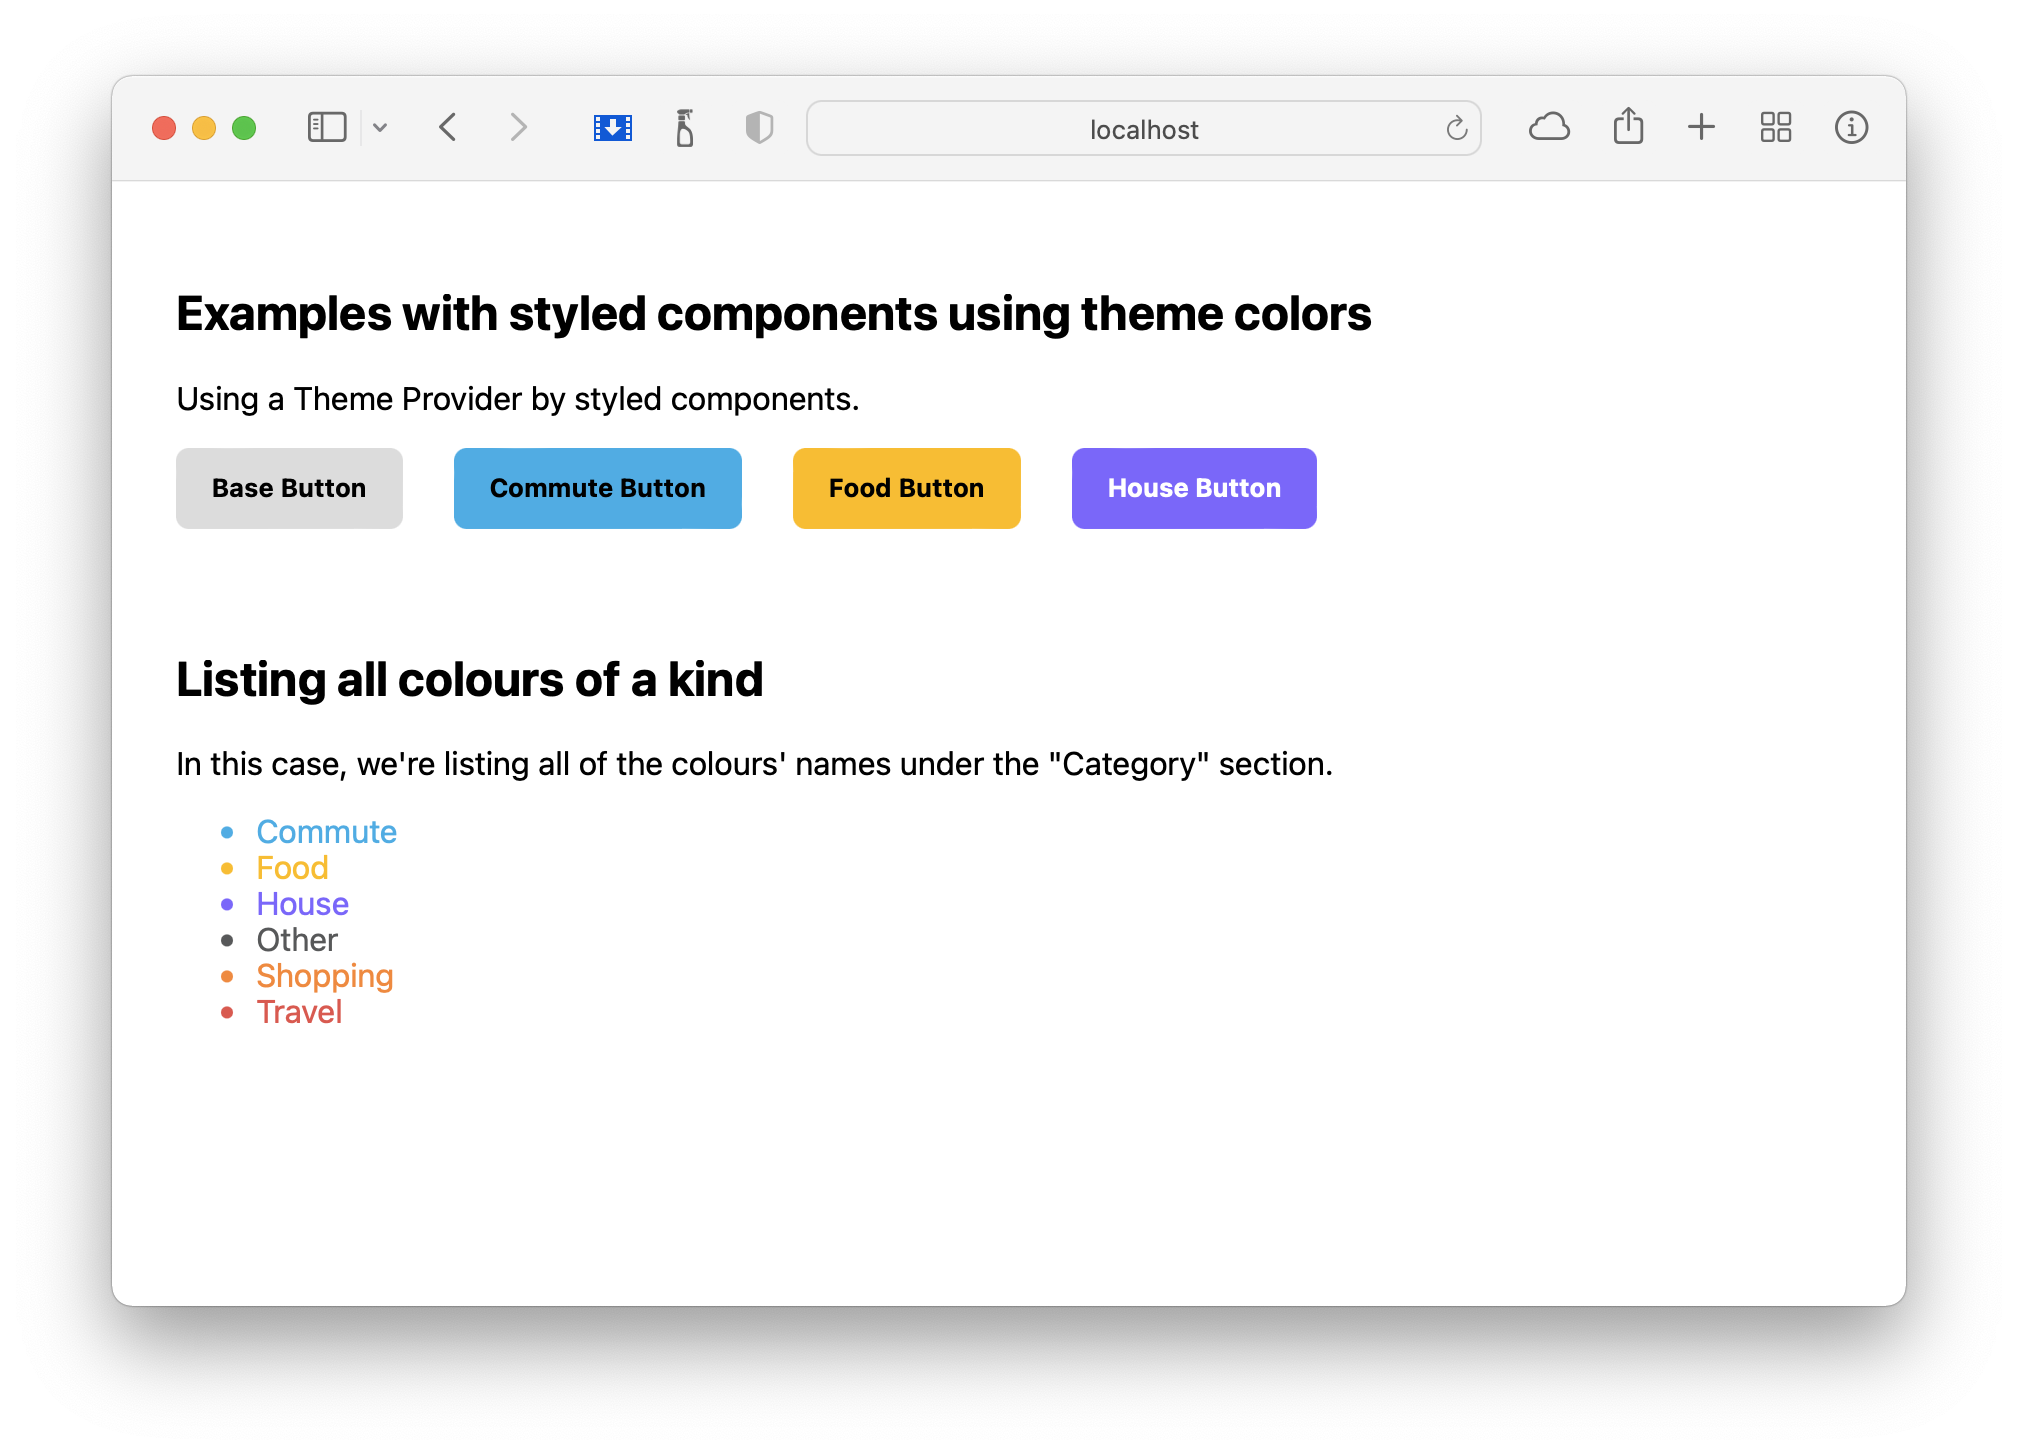
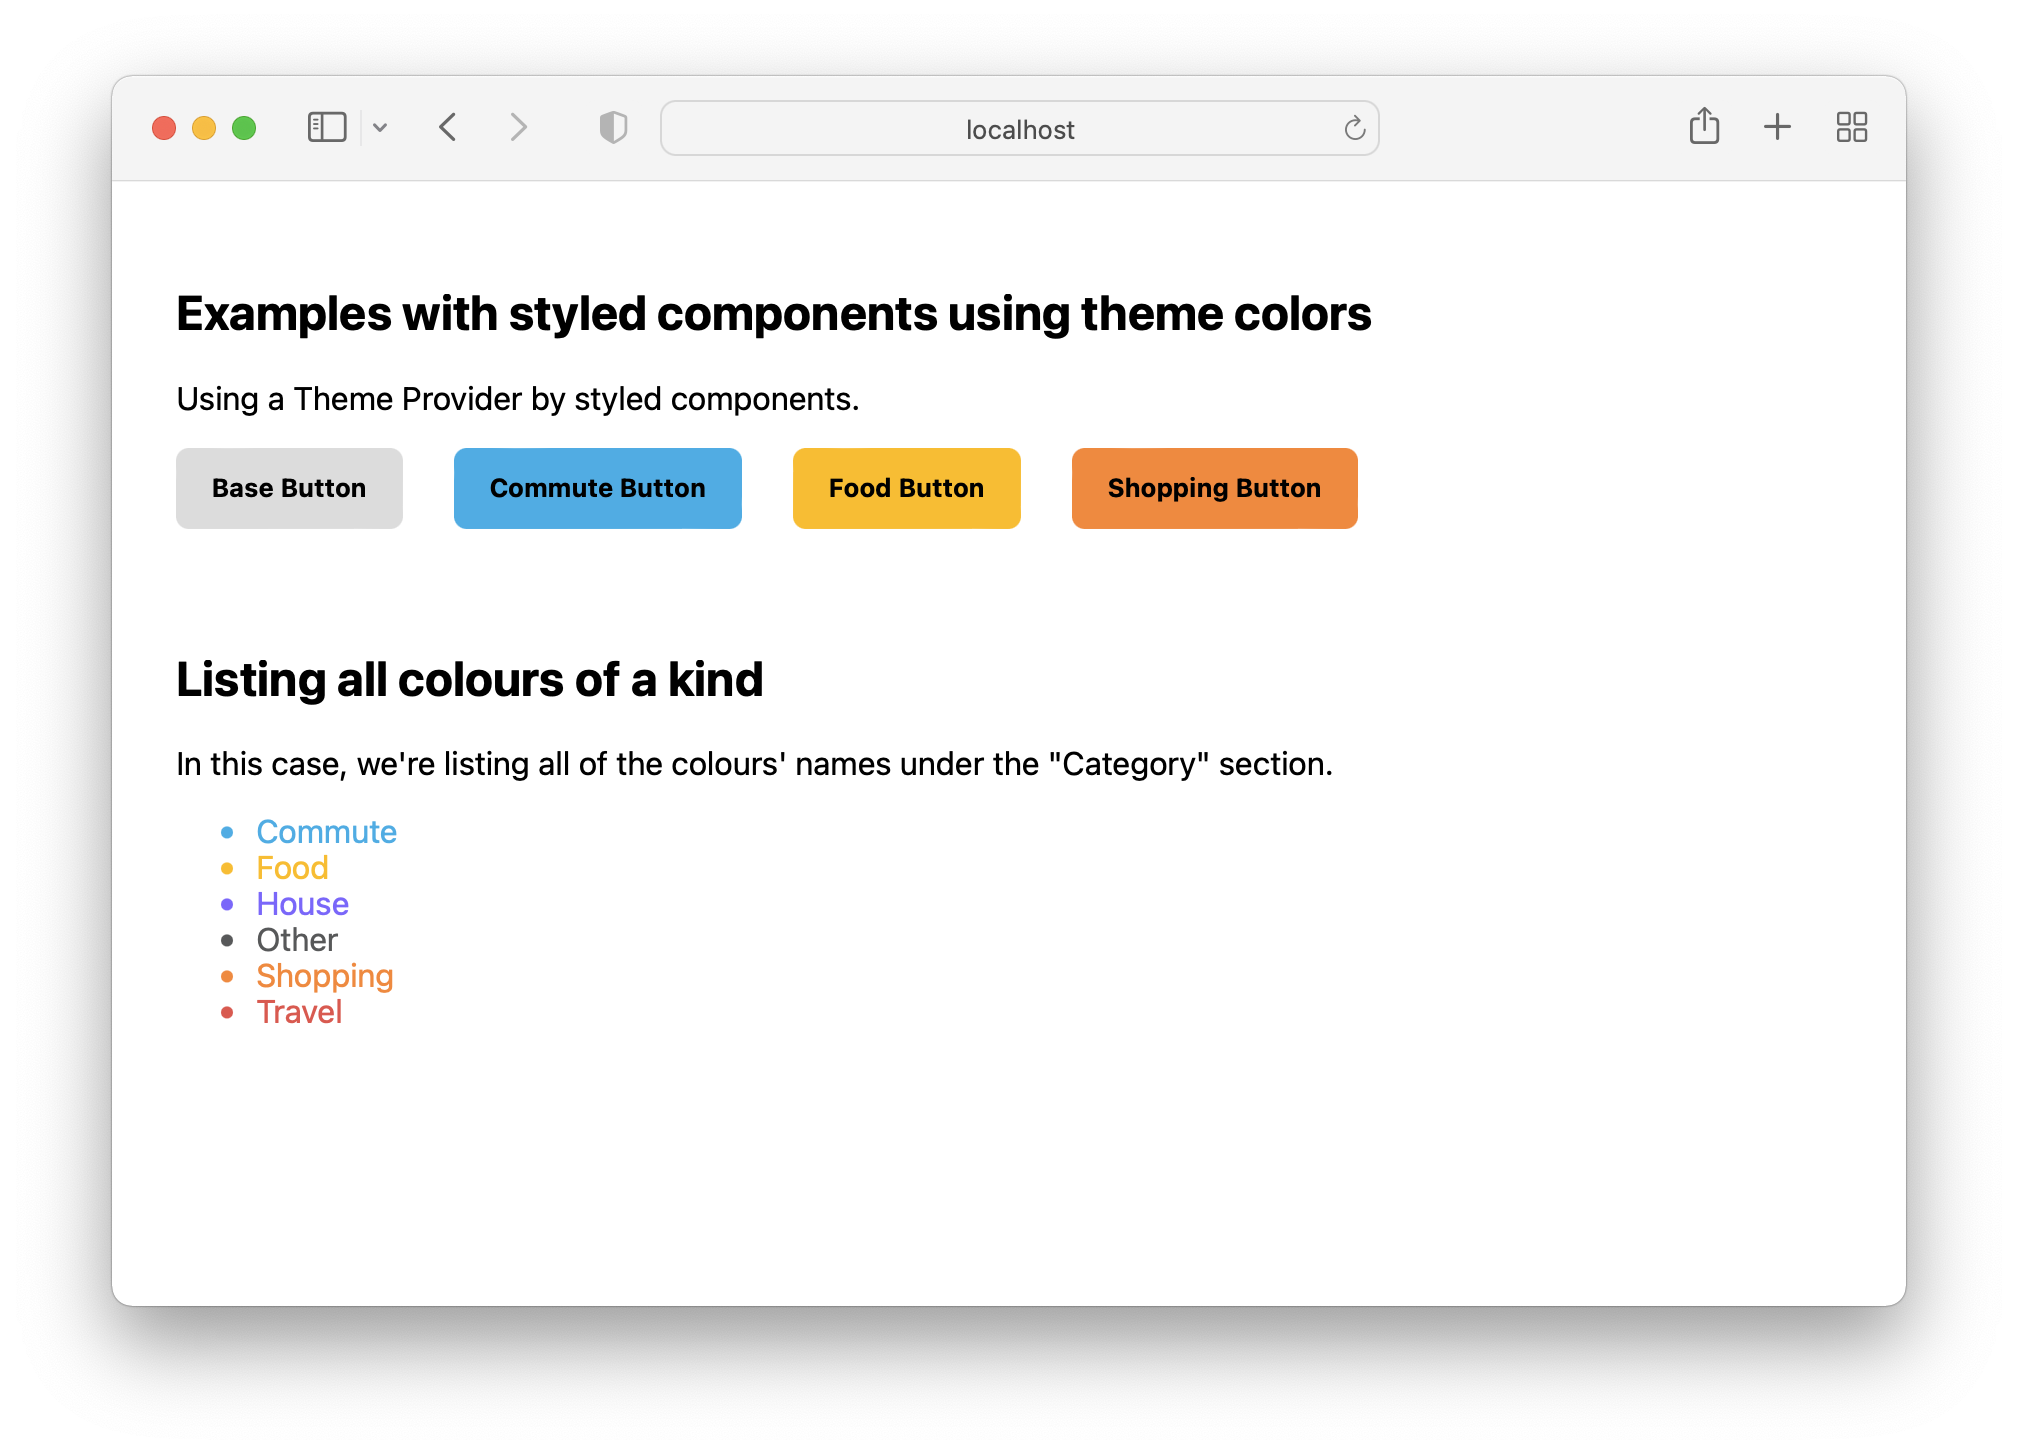
Better accessibility colors

diff --git a/src/components/Buttons.jsx b/src/components/Buttons.jsx
@@ -29,9 +29,8 @@ const FoodButton = styled(BaseButton)`
  background: ${({ theme }) => theme.Category['Food'].value};
 `;
 
-const HouseButton = styled(BaseButton)`
- background: ${({ theme }) => theme.Category['House'].value};
- color: #fff;
+const ShoppingButton = styled(BaseButton)`
+ background: ${({ theme }) => theme.Category['Shopping'].value};
 `;
 
 const Buttons = () => {
@@ -47,7 +46,7 @@ const Buttons = () => {
     <BaseButton>Base Button</BaseButton>
     <CommuteButton>Commute Button</CommuteButton>
     <FoodButton>Food Button</FoodButton>
-    <HouseButton>House Button</HouseButton>
+    <ShoppingButton>Shopping Button</ShoppingButton>
    </ThemeProvider>
   </Container>
  );
